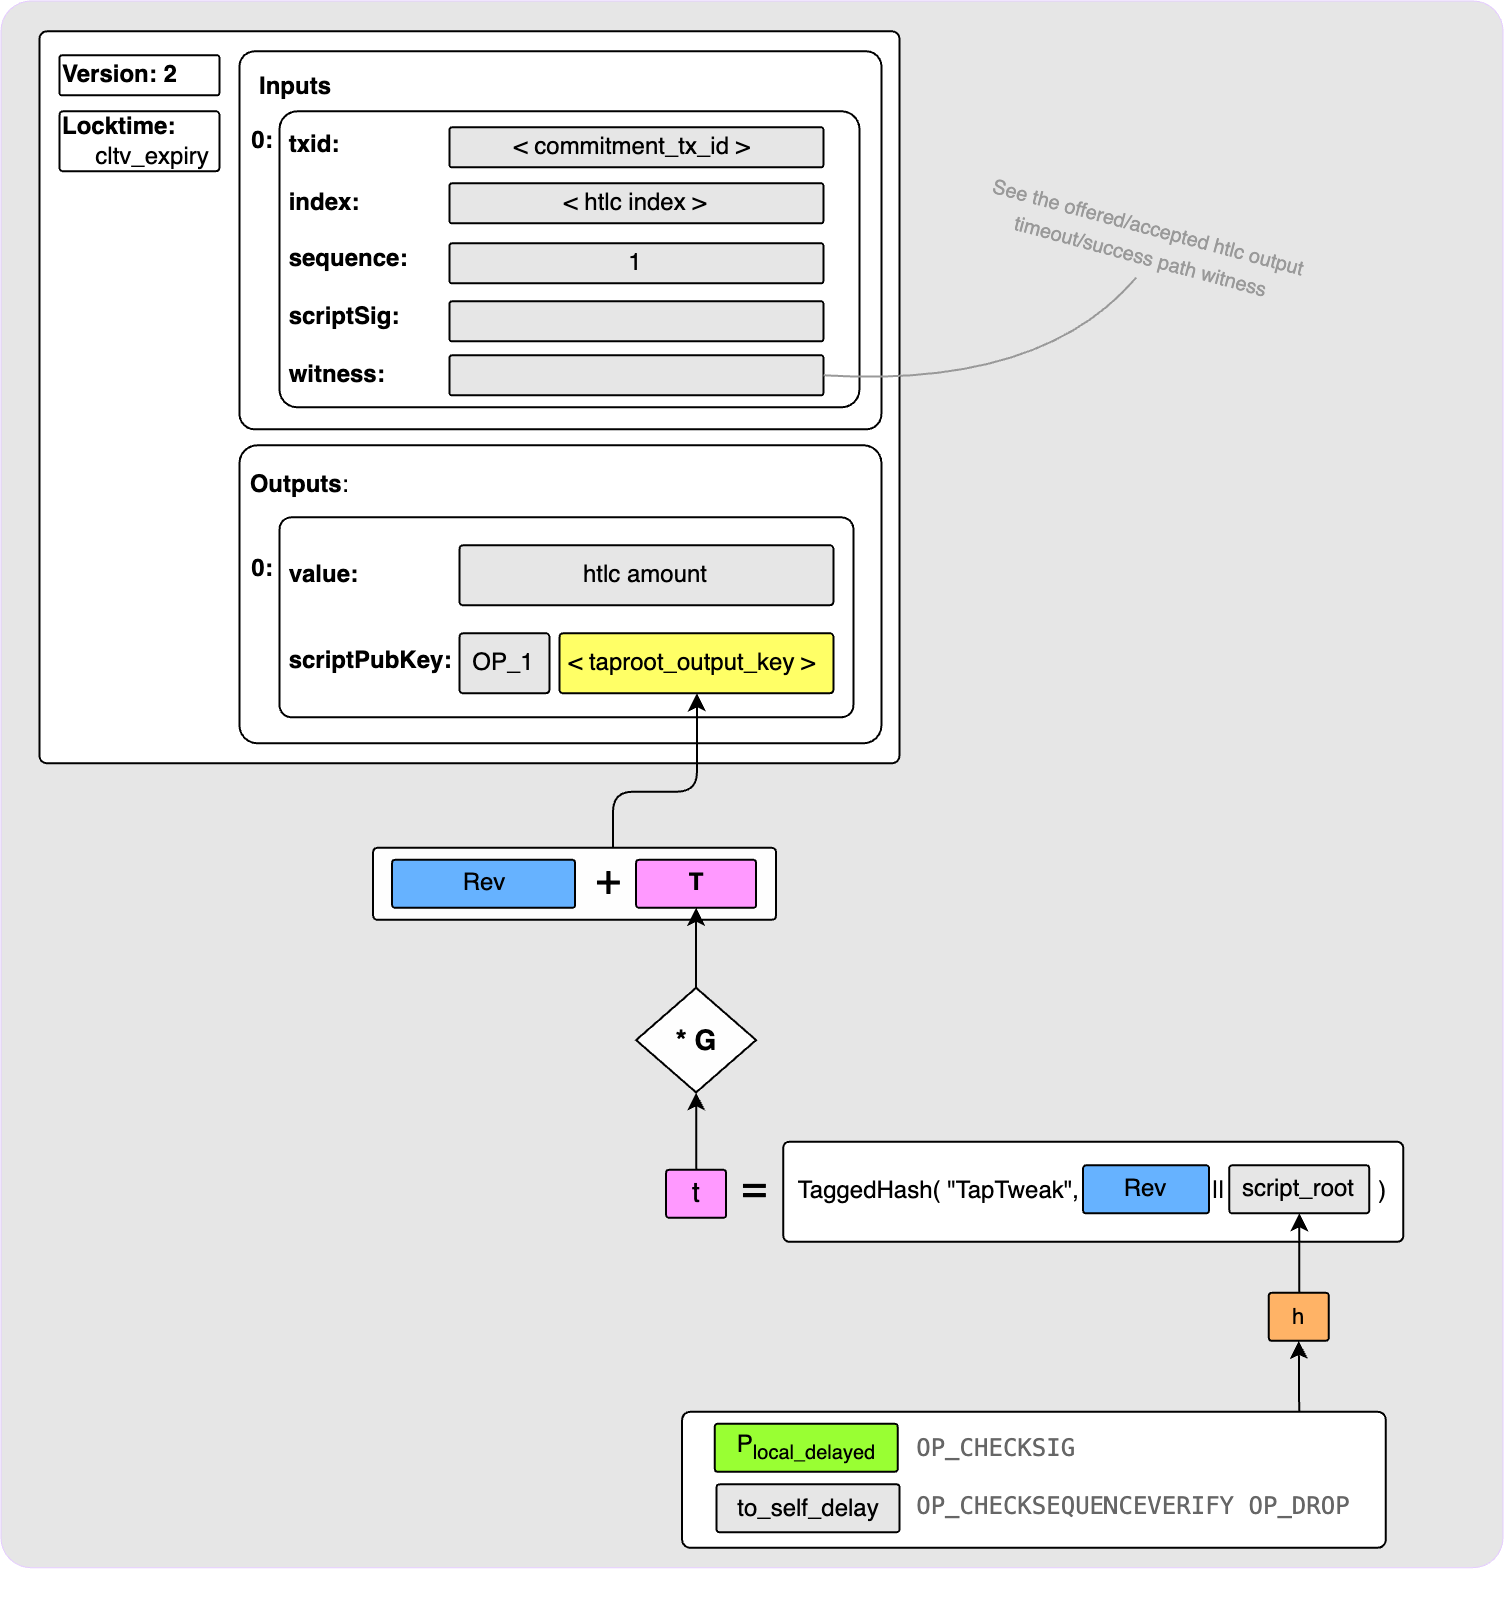
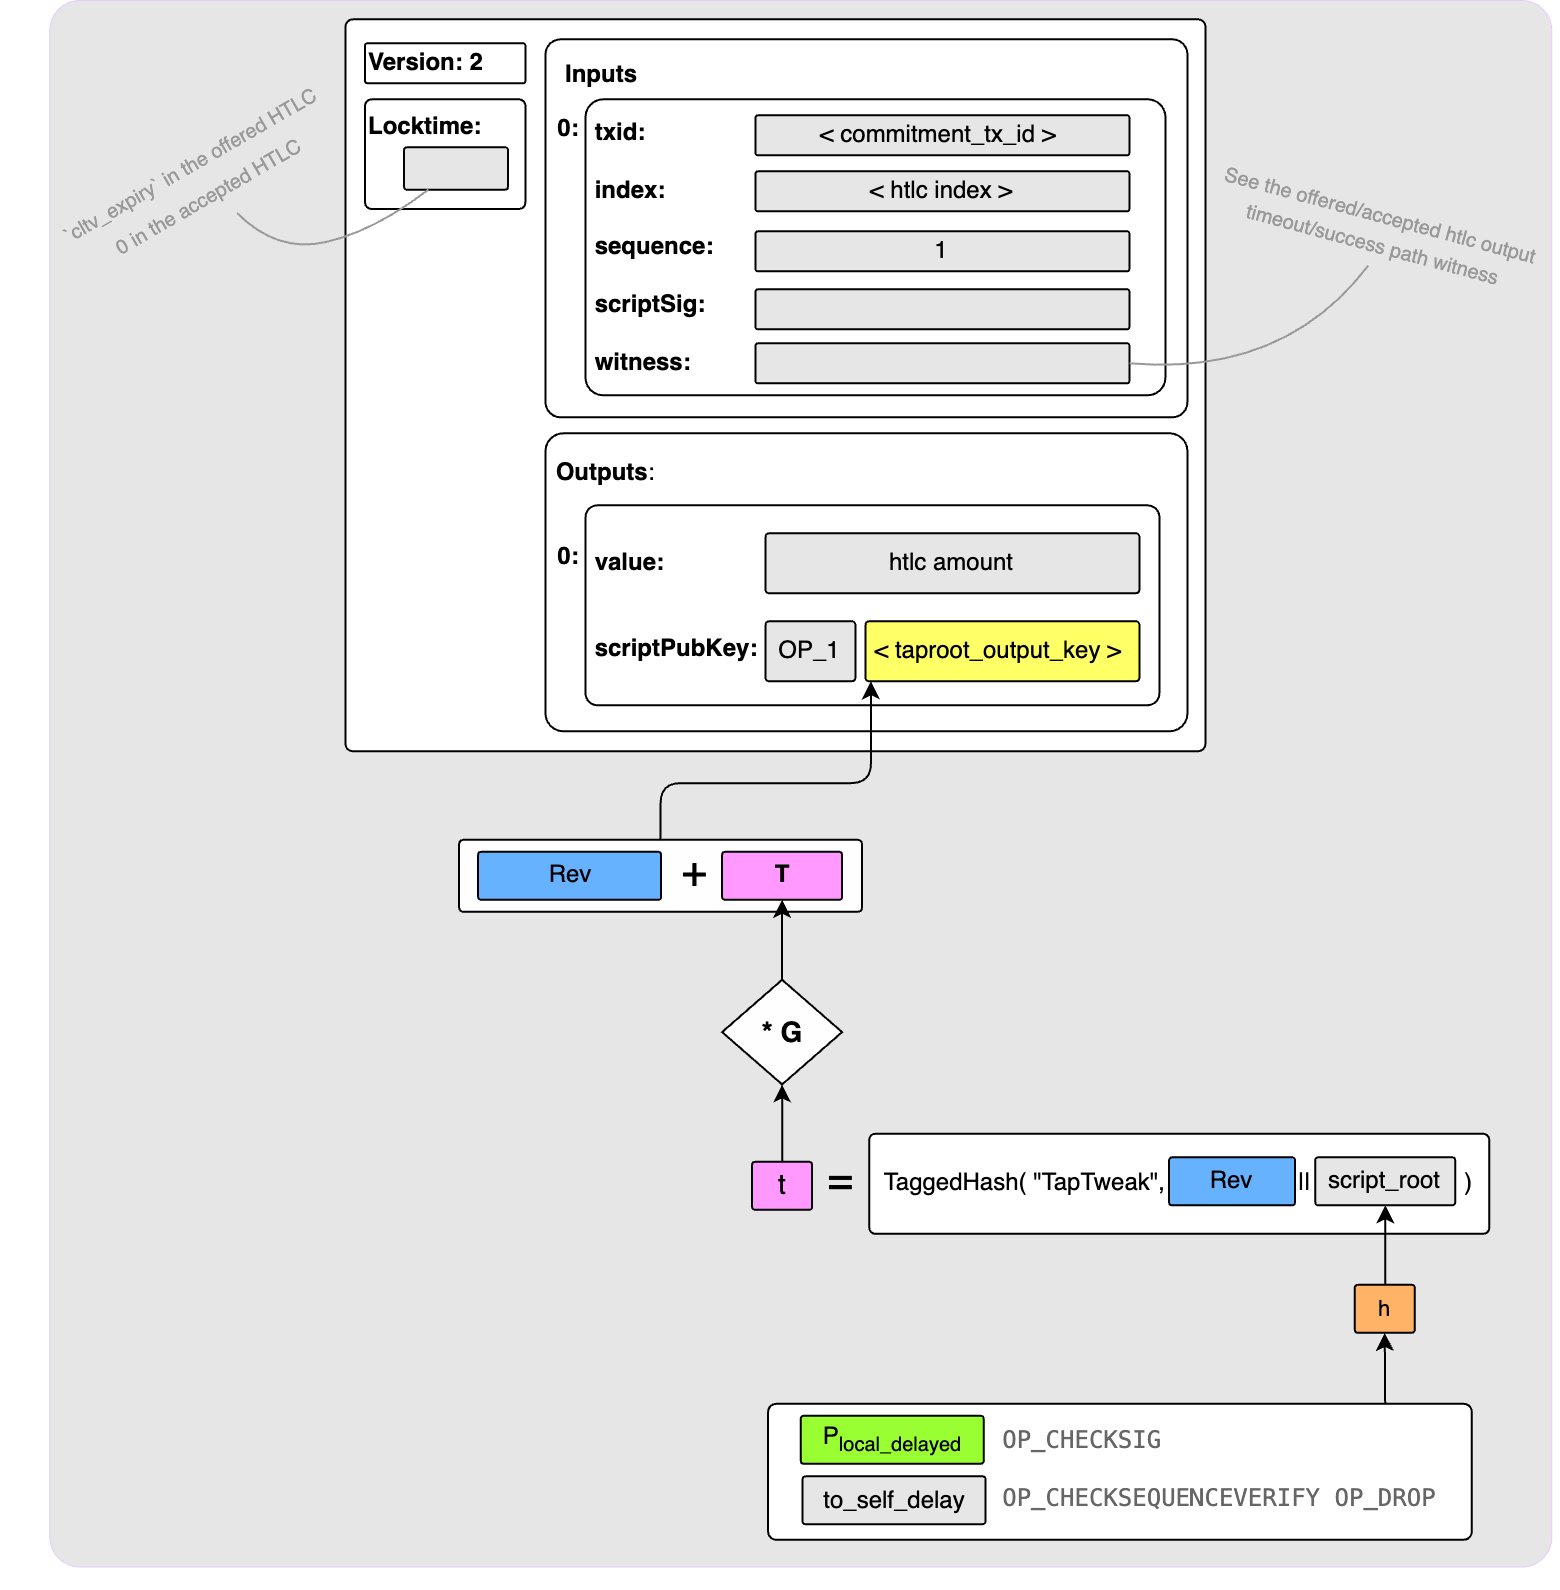
tap-chan-txs: fix htlc-tx Locktime

diff --git a/content/drafts/taproot-chan-txs.md b/content/drafts/taproot-chan-txs.md
@@ -355,11 +355,13 @@ one diagram to describe both:
 
 ![](/taprootChanTxs/htlc-txs.png#center)
 
-The only difference between the htlc-success and htlc-timeout transactions would
-be the inputs they are spending and hence, the witness required for spending
+The first difference between the htlc-success and htlc-timeout transactions is
+the input they are spending and hence, the witness required for spending
 that input. The htlc-timeout transaction spends the timeout path of the offered
 HTLC output and the htlc-success transaction spends the success path of the
-accepted HTLC output.
+accepted HTLC output. The other difference is the `Locktime`: the htlc-timeout
+transaction has a `Locktime` of `cltv_expiry` and the htlc-success transaction
+has a `Locktime` of zero.
 
 The outputs of the htlc-success and htlc-timeout transactions are identical:
 they are immediately spendable by the remote party via the revocation path if
